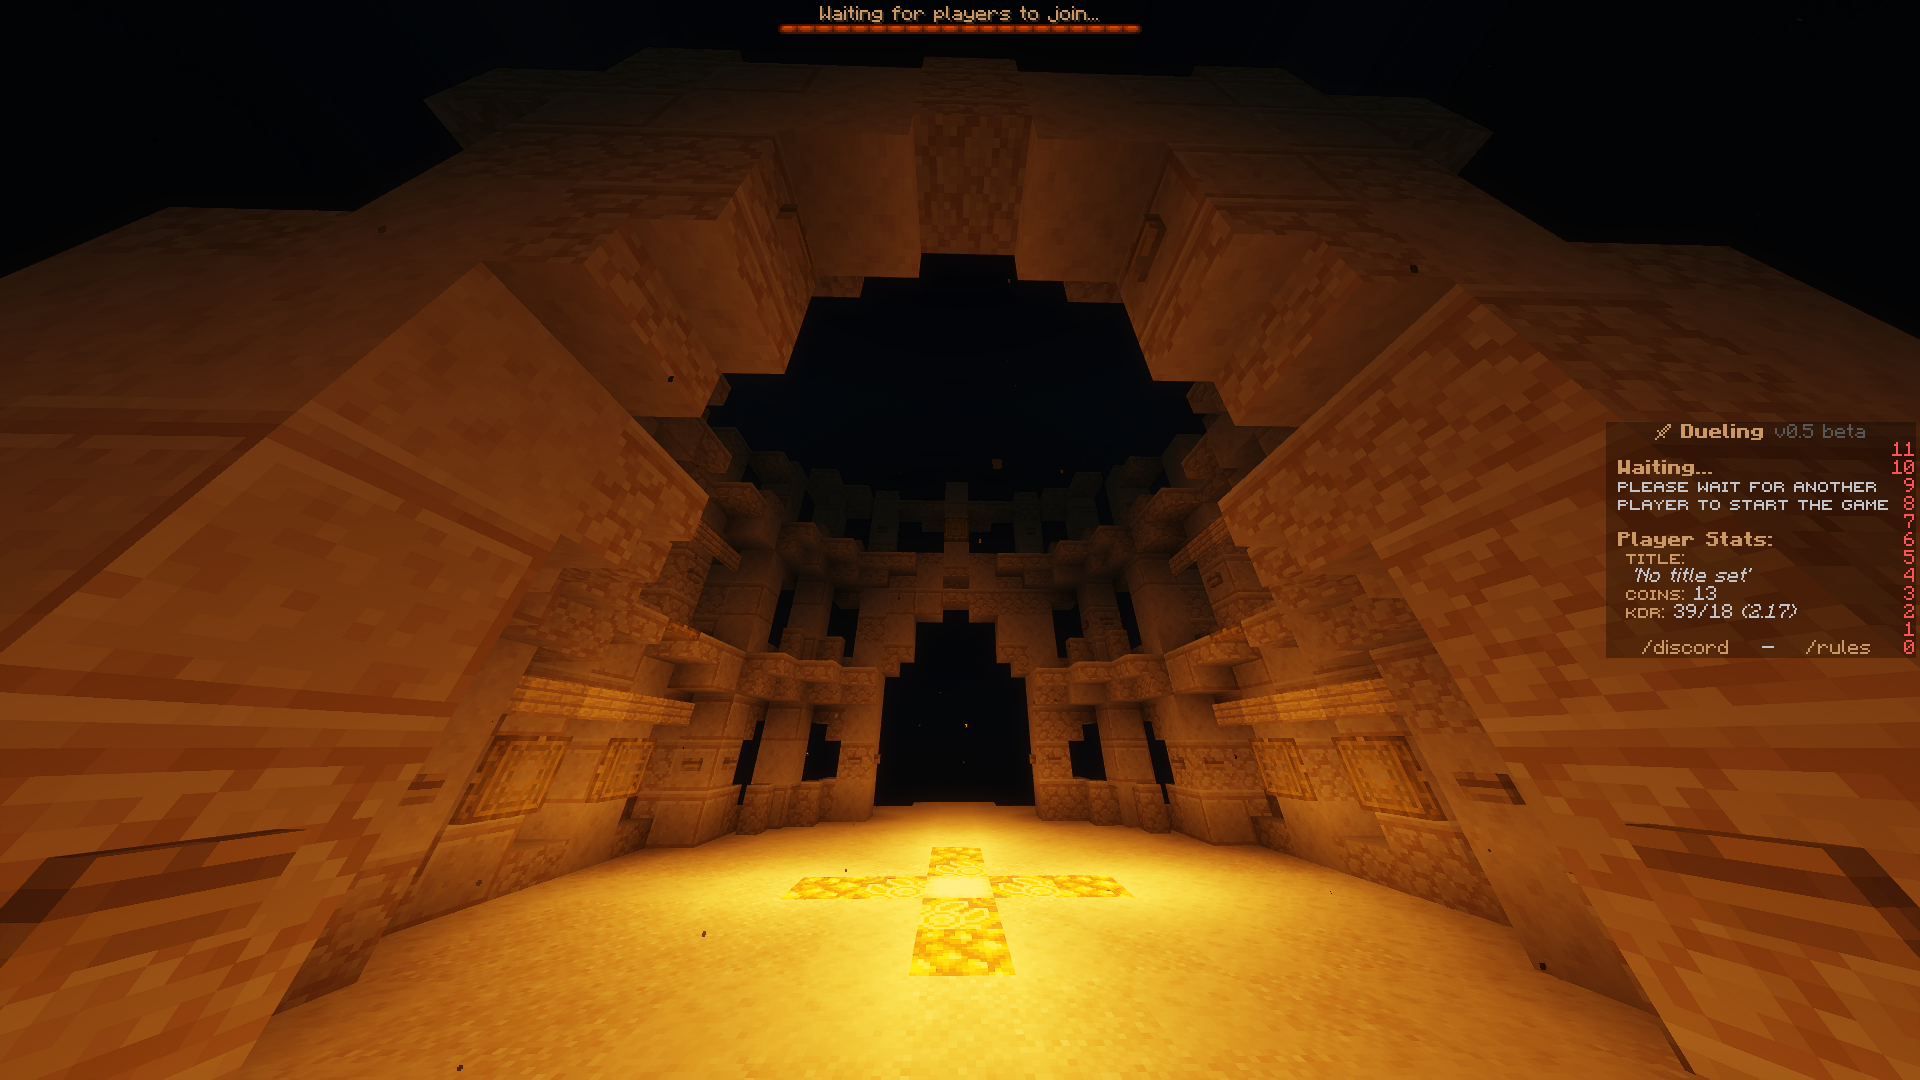
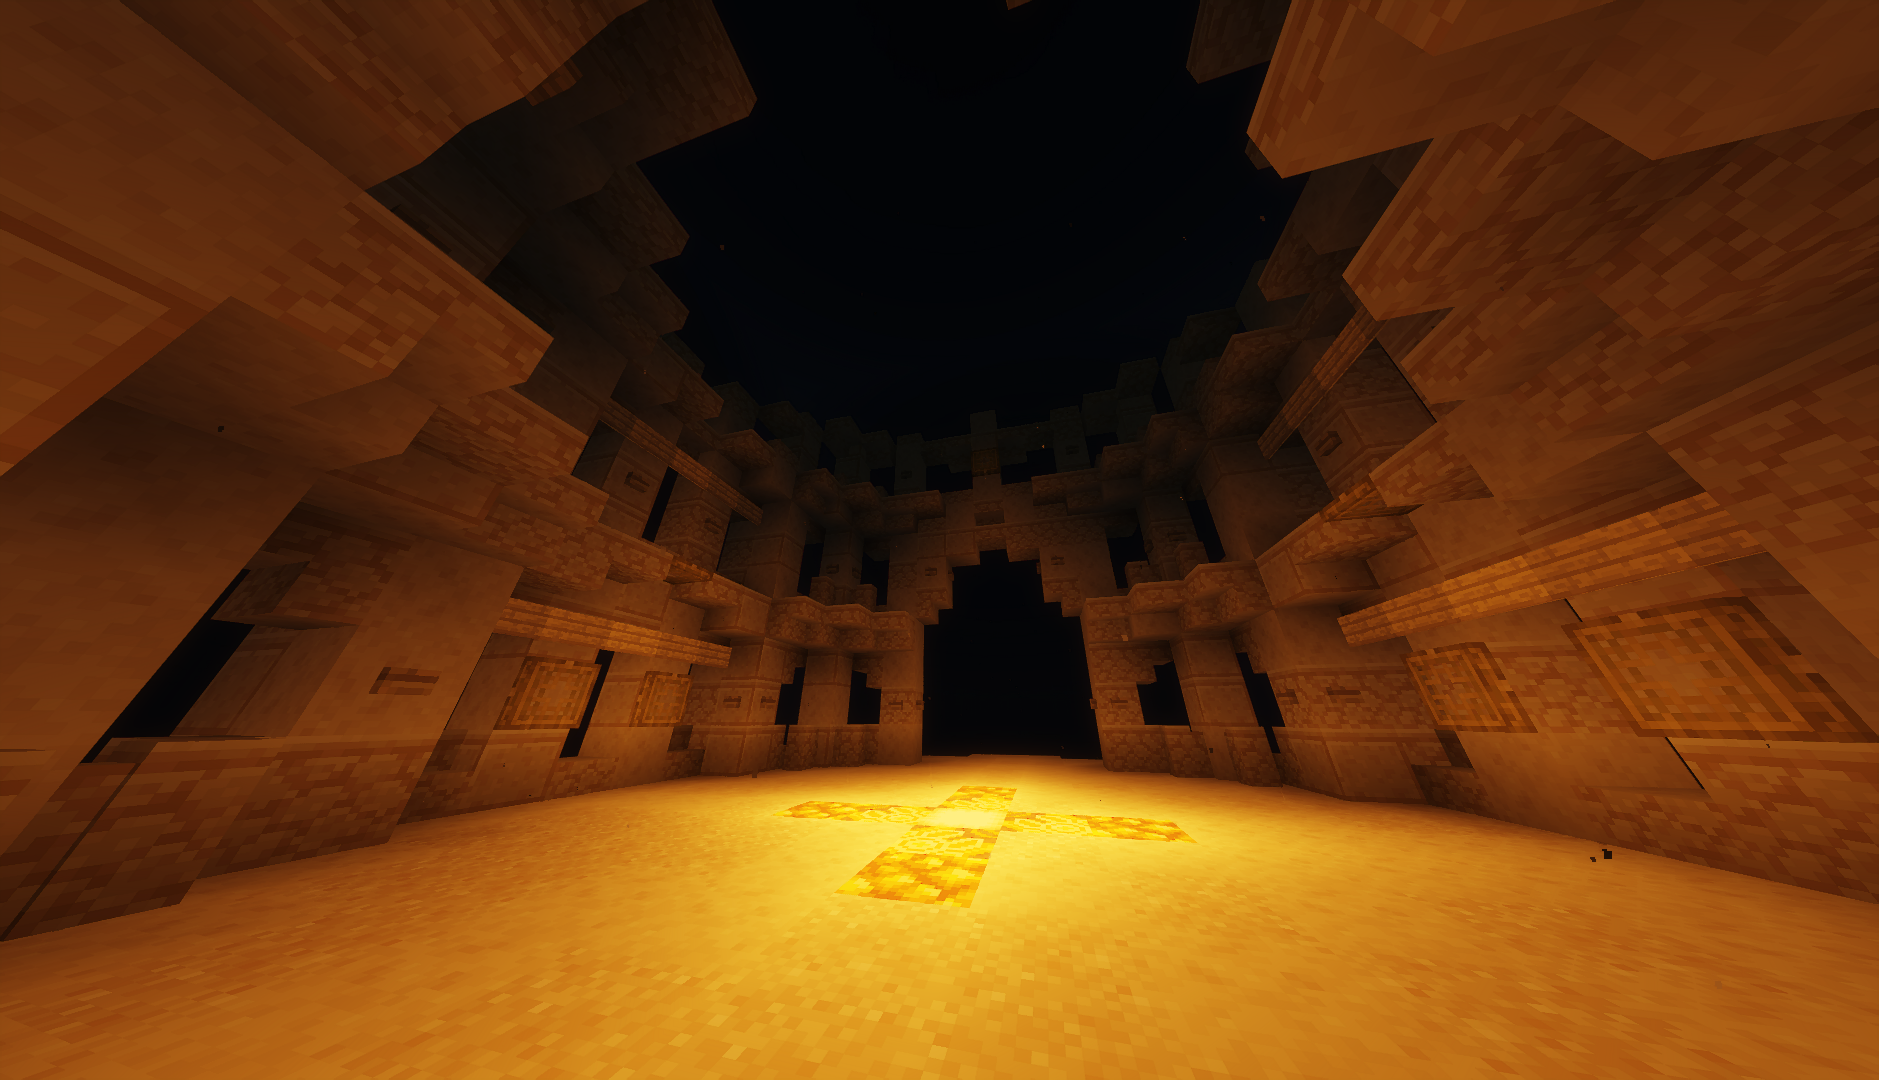
Image update

diff --git a/src/lib/config.js b/src/lib/config.js
@@ -62,7 +62,7 @@ export const heroItems = [
 		description: 'A custom Minecraft survival server',
 		images: [
 			{
-				image: 'Permafrost2.png'
+				image: 'Permafrost1.png'
 			}
 		]
 	},
@@ -72,6 +72,10 @@ export const heroItems = [
 		images: [
 			{
 				image: 'Dueling1.png',
+				invertColors: true
+			},
+			{
+				image: 'Dueling2.png',
 				invertColors: true
 			}
 		]
